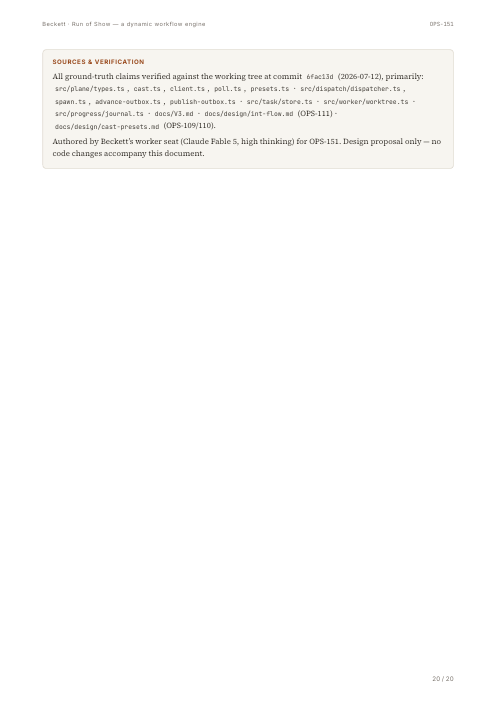
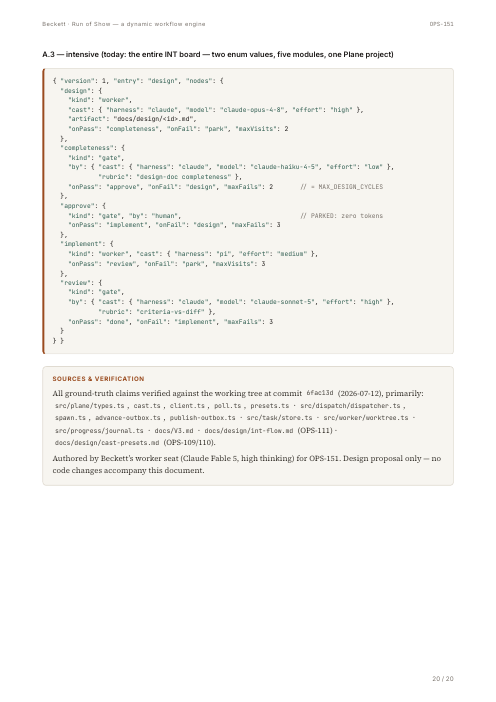
beckett: OPS-151 checkpoint (wk_c2cb3da2)

diff --git a/docs/.pdfbuild/07-appendix.html b/docs/.pdfbuild/07-appendix.html
@@ -7,62 +7,80 @@
   <div class="cols">
   <div>
   <h4>A.1 — one-pass (today: effort low/medium, tier &ldquo;self&rdquo;)</h4>
-  <pre><code>{ <span class="s">"version"</span>: 1,
-  <span class="s">"entry"</span>: <span class="s">"implement"</span>,
-  <span class="s">"nodes"</span>: {
-    <span class="s">"implement"</span>: {
-      <span class="s">"kind"</span>: <span class="s">"worker"</span>,
-      <span class="s">"cast"</span>: { <span class="s">"harness"</span>:<span class="s">"pi"</span>, <span class="s">"effort"</span>:<span class="s">"medium"</span> },
-      <span class="s">"onPass"</span>: <span class="s">"done"</span>,
-      <span class="s">"onFail"</span>: <span class="s">"park"</span>,
-      <span class="s">"retries"</span>: 3            <span class="c">// = MAX_IMPLEMENT_RETRIES</span>
+  <pre><code>{ <span class="s">&quot;version&quot;</span>: 1,
+  <span class="s">&quot;entry&quot;</span>: <span class="s">&quot;implement&quot;</span>,
+  <span class="s">&quot;nodes&quot;</span>: {
+    <span class="s">&quot;implement&quot;</span>: {
+      <span class="s">&quot;kind&quot;</span>: <span class="s">&quot;worker&quot;</span>,
+      <span class="s">&quot;cast&quot;</span>: { <span class="s">&quot;harness&quot;</span>: <span class="s">&quot;pi&quot;</span>,
+                <span class="s">&quot;effort&quot;</span>: <span class="s">&quot;medium&quot;</span> },
+      <span class="s">&quot;onPass&quot;</span>: <span class="s">&quot;done&quot;</span>,
+      <span class="s">&quot;onFail&quot;</span>: <span class="s">&quot;park&quot;</span>,
+      <span class="s">&quot;retries&quot;</span>: 3
+      <span class="c">// = MAX_IMPLEMENT_RETRIES</span>
     }
-  } }</code></pre>
+} }</code></pre>
   <p class="small">The zero-diff withhold (self-tier finish with no changes → route to review instead <span class="ref">dispatcher.ts:2283–2293</span>) becomes a linter-inserted model gate on this spec — the special case turns into visible structure.</p>
   </div>
   <div>
   <h4>A.2 — reviewed (today: effort high/xhigh, tier &ldquo;fresh&rdquo;)</h4>
-  <pre><code>{ <span class="s">"version"</span>: 1,
-  <span class="s">"entry"</span>: <span class="s">"implement"</span>,
-  <span class="s">"nodes"</span>: {
-    <span class="s">"implement"</span>: {
-      <span class="s">"kind"</span>: <span class="s">"worker"</span>,
-      <span class="s">"cast"</span>: { <span class="s">"harness"</span>:<span class="s">"pi"</span>, <span class="s">"effort"</span>:<span class="s">"high"</span> },
-      <span class="s">"onPass"</span>: <span class="s">"review"</span>,
-      <span class="s">"onFail"</span>: <span class="s">"park"</span>,
-      <span class="s">"maxVisits"</span>: 3,         <span class="c">// = MAX_REWORK_CYCLES</span>
-      <span class="s">"retries"</span>: 3
+  <pre><code>{ <span class="s">&quot;version&quot;</span>: 1,
+  <span class="s">&quot;entry&quot;</span>: <span class="s">&quot;implement&quot;</span>,
+  <span class="s">&quot;nodes&quot;</span>: {
+    <span class="s">&quot;implement&quot;</span>: {
+      <span class="s">&quot;kind&quot;</span>: <span class="s">&quot;worker&quot;</span>,
+      <span class="s">&quot;cast&quot;</span>: { <span class="s">&quot;harness&quot;</span>: <span class="s">&quot;pi&quot;</span>,
+                <span class="s">&quot;effort&quot;</span>: <span class="s">&quot;high&quot;</span> },
+      <span class="s">&quot;onPass&quot;</span>: <span class="s">&quot;review&quot;</span>,
+      <span class="s">&quot;onFail&quot;</span>: <span class="s">&quot;park&quot;</span>,
+      <span class="s">&quot;maxVisits&quot;</span>: 3,
+      <span class="c">// = MAX_REWORK_CYCLES</span>
+      <span class="s">&quot;retries&quot;</span>: 3
     },
-    <span class="s">"review"</span>: {
-      <span class="s">"kind"</span>: <span class="s">"gate"</span>,
-      <span class="s">"by"</span>: { <span class="s">"cast"</span>: { <span class="s">"harness"</span>:<span class="s">"claude"</span>,
-              <span class="s">"model"</span>:<span class="s">"claude-sonnet-5"</span>, <span class="s">"effort"</span>:<span class="s">"high"</span> },
-              <span class="s">"rubric"</span>: <span class="s">"criteria-vs-diff"</span> },
-      <span class="s">"onPass"</span>: <span class="s">"done"</span>,
-      <span class="s">"onFail"</span>: <span class="s">"implement"</span>,
-      <span class="s">"maxFails"</span>: 3
+    <span class="s">&quot;review&quot;</span>: {
+      <span class="s">&quot;kind&quot;</span>: <span class="s">&quot;gate&quot;</span>,
+      <span class="s">&quot;by&quot;</span>: {
+        <span class="s">&quot;cast&quot;</span>: { <span class="s">&quot;harness&quot;</span>: <span class="s">&quot;claude&quot;</span>,
+                  <span class="s">&quot;model&quot;</span>: <span class="s">&quot;claude-sonnet-5&quot;</span>,
+                  <span class="s">&quot;effort&quot;</span>: <span class="s">&quot;high&quot;</span> },
+        <span class="s">&quot;rubric&quot;</span>: <span class="s">&quot;criteria-vs-diff&quot;</span>
+      },
+      <span class="s">&quot;onPass&quot;</span>: <span class="s">&quot;done&quot;</span>,
+      <span class="s">&quot;onFail&quot;</span>: <span class="s">&quot;implement&quot;</span>,
+      <span class="s">&quot;maxFails&quot;</span>: 3
     }
-  } }</code></pre>
+} }</code></pre>
   </div>
   </div>
 
   <h4>A.3 — intensive (today: the entire INT board — two enum values, five modules, one Plane project)</h4>
-  <pre><code>{ <span class="s">"version"</span>: 1, <span class="s">"entry"</span>: <span class="s">"design"</span>, <span class="s">"nodes"</span>: {
-  <span class="s">"design"</span>:       { <span class="s">"kind"</span>:<span class="s">"worker"</span>, <span class="s">"cast"</span>:{<span class="s">"harness"</span>:<span class="s">"claude"</span>,<span class="s">"model"</span>:<span class="s">"claude-opus-4-8"</span>,<span class="s">"effort"</span>:<span class="s">"high"</span>},
-                    <span class="s">"artifact"</span>:<span class="s">"docs/design/&lt;id&gt;.md"</span>,
-                    <span class="s">"onPass"</span>:<span class="s">"completeness"</span>, <span class="s">"onFail"</span>:<span class="s">"park"</span>, <span class="s">"maxVisits"</span>:2 },
-  <span class="s">"completeness"</span>: { <span class="s">"kind"</span>:<span class="s">"gate"</span>,
-                    <span class="s">"by"</span>: { <span class="s">"cast"</span>:{<span class="s">"harness"</span>:<span class="s">"claude"</span>,<span class="s">"model"</span>:<span class="s">"claude-haiku-4-5"</span>,<span class="s">"effort"</span>:<span class="s">"low"</span>},
-                            <span class="s">"rubric"</span>:<span class="s">"design-doc completeness"</span> },
-                    <span class="s">"onPass"</span>:<span class="s">"approve"</span>, <span class="s">"onFail"</span>:<span class="s">"design"</span>, <span class="s">"maxFails"</span>:2 },   <span class="c">// = MAX_DESIGN_CYCLES</span>
-  <span class="s">"approve"</span>:      { <span class="s">"kind"</span>:<span class="s">"gate"</span>, <span class="s">"by"</span>:<span class="s">"human"</span>,                              <span class="c">// PARKED: zero tokens</span>
-                    <span class="s">"onPass"</span>:<span class="s">"implement"</span>, <span class="s">"onFail"</span>:<span class="s">"design"</span>, <span class="s">"maxFails"</span>:3 },
-  <span class="s">"implement"</span>:    { <span class="s">"kind"</span>:<span class="s">"worker"</span>, <span class="s">"cast"</span>:{<span class="s">"harness"</span>:<span class="s">"pi"</span>,<span class="s">"effort"</span>:<span class="s">"medium"</span>},
-                    <span class="s">"onPass"</span>:<span class="s">"review"</span>, <span class="s">"onFail"</span>:<span class="s">"park"</span>, <span class="s">"maxVisits"</span>:3 },
-  <span class="s">"review"</span>:       { <span class="s">"kind"</span>:<span class="s">"gate"</span>,
-                    <span class="s">"by"</span>: { <span class="s">"cast"</span>:{<span class="s">"harness"</span>:<span class="s">"claude"</span>,<span class="s">"model"</span>:<span class="s">"claude-sonnet-5"</span>,<span class="s">"effort"</span>:<span class="s">"high"</span>},
-                            <span class="s">"rubric"</span>:<span class="s">"criteria-vs-diff"</span> },
-                    <span class="s">"onPass"</span>:<span class="s">"done"</span>, <span class="s">"onFail"</span>:<span class="s">"implement"</span>, <span class="s">"maxFails"</span>:3 }
+  <pre><code>{ <span class="s">&quot;version&quot;</span>: 1, <span class="s">&quot;entry&quot;</span>: <span class="s">&quot;design&quot;</span>, <span class="s">&quot;nodes&quot;</span>: {
+  <span class="s">&quot;design&quot;</span>: {
+    <span class="s">&quot;kind&quot;</span>: <span class="s">&quot;worker&quot;</span>,
+    <span class="s">&quot;cast&quot;</span>: { <span class="s">&quot;harness&quot;</span>: <span class="s">&quot;claude&quot;</span>, <span class="s">&quot;model&quot;</span>: <span class="s">&quot;claude-opus-4-8&quot;</span>, <span class="s">&quot;effort&quot;</span>: <span class="s">&quot;high&quot;</span> },
+    <span class="s">&quot;artifact&quot;</span>: &quot;docs/design/&lt;id&gt;.md&quot;,
+    <span class="s">&quot;onPass&quot;</span>: <span class="s">&quot;completeness&quot;</span>, <span class="s">&quot;onFail&quot;</span>: <span class="s">&quot;park&quot;</span>, <span class="s">&quot;maxVisits&quot;</span>: 2
+  },
+  <span class="s">&quot;completeness&quot;</span>: {
+    <span class="s">&quot;kind&quot;</span>: <span class="s">&quot;gate&quot;</span>,
+    <span class="s">&quot;by&quot;</span>: { <span class="s">&quot;cast&quot;</span>: { <span class="s">&quot;harness&quot;</span>: <span class="s">&quot;claude&quot;</span>, <span class="s">&quot;model&quot;</span>: <span class="s">&quot;claude-haiku-4-5&quot;</span>, <span class="s">&quot;effort&quot;</span>: <span class="s">&quot;low&quot;</span> },
+            <span class="s">&quot;rubric&quot;</span>: <span class="s">&quot;design-doc completeness&quot;</span> },
+    <span class="s">&quot;onPass&quot;</span>: <span class="s">&quot;approve&quot;</span>, <span class="s">&quot;onFail&quot;</span>: <span class="s">&quot;design&quot;</span>, <span class="s">&quot;maxFails&quot;</span>: 2       <span class="c">// = MAX_DESIGN_CYCLES</span>
+  },
+  <span class="s">&quot;approve&quot;</span>: {
+    <span class="s">&quot;kind&quot;</span>: <span class="s">&quot;gate&quot;</span>, <span class="s">&quot;by&quot;</span>: <span class="s">&quot;human&quot;</span>,                               <span class="c">// PARKED: zero tokens</span>
+    <span class="s">&quot;onPass&quot;</span>: <span class="s">&quot;implement&quot;</span>, <span class="s">&quot;onFail&quot;</span>: <span class="s">&quot;design&quot;</span>, <span class="s">&quot;maxFails&quot;</span>: 3
+  },
+  <span class="s">&quot;implement&quot;</span>: {
+    <span class="s">&quot;kind&quot;</span>: <span class="s">&quot;worker&quot;</span>, <span class="s">&quot;cast&quot;</span>: { <span class="s">&quot;harness&quot;</span>: <span class="s">&quot;pi&quot;</span>, <span class="s">&quot;effort&quot;</span>: <span class="s">&quot;medium&quot;</span> },
+    <span class="s">&quot;onPass&quot;</span>: <span class="s">&quot;review&quot;</span>, <span class="s">&quot;onFail&quot;</span>: <span class="s">&quot;park&quot;</span>, <span class="s">&quot;maxVisits&quot;</span>: 3
+  },
+  <span class="s">&quot;review&quot;</span>: {
+    <span class="s">&quot;kind&quot;</span>: <span class="s">&quot;gate&quot;</span>,
+    <span class="s">&quot;by&quot;</span>: { <span class="s">&quot;cast&quot;</span>: { <span class="s">&quot;harness&quot;</span>: <span class="s">&quot;claude&quot;</span>, <span class="s">&quot;model&quot;</span>: <span class="s">&quot;claude-sonnet-5&quot;</span>, <span class="s">&quot;effort&quot;</span>: <span class="s">&quot;high&quot;</span> },
+            <span class="s">&quot;rubric&quot;</span>: <span class="s">&quot;criteria-vs-diff&quot;</span> },
+    <span class="s">&quot;onPass&quot;</span>: <span class="s">&quot;done&quot;</span>, <span class="s">&quot;onFail&quot;</span>: <span class="s">&quot;implement&quot;</span>, <span class="s">&quot;maxFails&quot;</span>: 3
+  }
 } }</code></pre>
 
   <div class="note" style="margin-top:5mm">

diff --git a/docs/.pdfbuild/design.html b/docs/.pdfbuild/design.html
@@ -718,62 +718,80 @@ beckett task file --title "…" --project foo --channel &lt;id&gt; \
   <div class="cols">
   <div>
   <h4>A.1 — one-pass (today: effort low/medium, tier &ldquo;self&rdquo;)</h4>
-  <pre><code>{ <span class="s">"version"</span>: 1,
-  <span class="s">"entry"</span>: <span class="s">"implement"</span>,
-  <span class="s">"nodes"</span>: {
-    <span class="s">"implement"</span>: {
-      <span class="s">"kind"</span>: <span class="s">"worker"</span>,
-      <span class="s">"cast"</span>: { <span class="s">"harness"</span>:<span class="s">"pi"</span>, <span class="s">"effort"</span>:<span class="s">"medium"</span> },
-      <span class="s">"onPass"</span>: <span class="s">"done"</span>,
-      <span class="s">"onFail"</span>: <span class="s">"park"</span>,
-      <span class="s">"retries"</span>: 3            <span class="c">// = MAX_IMPLEMENT_RETRIES</span>
+  <pre><code>{ <span class="s">&quot;version&quot;</span>: 1,
+  <span class="s">&quot;entry&quot;</span>: <span class="s">&quot;implement&quot;</span>,
+  <span class="s">&quot;nodes&quot;</span>: {
+    <span class="s">&quot;implement&quot;</span>: {
+      <span class="s">&quot;kind&quot;</span>: <span class="s">&quot;worker&quot;</span>,
+      <span class="s">&quot;cast&quot;</span>: { <span class="s">&quot;harness&quot;</span>: <span class="s">&quot;pi&quot;</span>,
+                <span class="s">&quot;effort&quot;</span>: <span class="s">&quot;medium&quot;</span> },
+      <span class="s">&quot;onPass&quot;</span>: <span class="s">&quot;done&quot;</span>,
+      <span class="s">&quot;onFail&quot;</span>: <span class="s">&quot;park&quot;</span>,
+      <span class="s">&quot;retries&quot;</span>: 3
+      <span class="c">// = MAX_IMPLEMENT_RETRIES</span>
     }
-  } }</code></pre>
+} }</code></pre>
   <p class="small">The zero-diff withhold (self-tier finish with no changes → route to review instead <span class="ref">dispatcher.ts:2283–2293</span>) becomes a linter-inserted model gate on this spec — the special case turns into visible structure.</p>
   </div>
   <div>
   <h4>A.2 — reviewed (today: effort high/xhigh, tier &ldquo;fresh&rdquo;)</h4>
-  <pre><code>{ <span class="s">"version"</span>: 1,
-  <span class="s">"entry"</span>: <span class="s">"implement"</span>,
-  <span class="s">"nodes"</span>: {
-    <span class="s">"implement"</span>: {
-      <span class="s">"kind"</span>: <span class="s">"worker"</span>,
-      <span class="s">"cast"</span>: { <span class="s">"harness"</span>:<span class="s">"pi"</span>, <span class="s">"effort"</span>:<span class="s">"high"</span> },
-      <span class="s">"onPass"</span>: <span class="s">"review"</span>,
-      <span class="s">"onFail"</span>: <span class="s">"park"</span>,
-      <span class="s">"maxVisits"</span>: 3,         <span class="c">// = MAX_REWORK_CYCLES</span>
-      <span class="s">"retries"</span>: 3
+  <pre><code>{ <span class="s">&quot;version&quot;</span>: 1,
+  <span class="s">&quot;entry&quot;</span>: <span class="s">&quot;implement&quot;</span>,
+  <span class="s">&quot;nodes&quot;</span>: {
+    <span class="s">&quot;implement&quot;</span>: {
+      <span class="s">&quot;kind&quot;</span>: <span class="s">&quot;worker&quot;</span>,
+      <span class="s">&quot;cast&quot;</span>: { <span class="s">&quot;harness&quot;</span>: <span class="s">&quot;pi&quot;</span>,
+                <span class="s">&quot;effort&quot;</span>: <span class="s">&quot;high&quot;</span> },
+      <span class="s">&quot;onPass&quot;</span>: <span class="s">&quot;review&quot;</span>,
+      <span class="s">&quot;onFail&quot;</span>: <span class="s">&quot;park&quot;</span>,
+      <span class="s">&quot;maxVisits&quot;</span>: 3,
+      <span class="c">// = MAX_REWORK_CYCLES</span>
+      <span class="s">&quot;retries&quot;</span>: 3
     },
-    <span class="s">"review"</span>: {
-      <span class="s">"kind"</span>: <span class="s">"gate"</span>,
-      <span class="s">"by"</span>: { <span class="s">"cast"</span>: { <span class="s">"harness"</span>:<span class="s">"claude"</span>,
-              <span class="s">"model"</span>:<span class="s">"claude-sonnet-5"</span>, <span class="s">"effort"</span>:<span class="s">"high"</span> },
-              <span class="s">"rubric"</span>: <span class="s">"criteria-vs-diff"</span> },
-      <span class="s">"onPass"</span>: <span class="s">"done"</span>,
-      <span class="s">"onFail"</span>: <span class="s">"implement"</span>,
-      <span class="s">"maxFails"</span>: 3
+    <span class="s">&quot;review&quot;</span>: {
+      <span class="s">&quot;kind&quot;</span>: <span class="s">&quot;gate&quot;</span>,
+      <span class="s">&quot;by&quot;</span>: {
+        <span class="s">&quot;cast&quot;</span>: { <span class="s">&quot;harness&quot;</span>: <span class="s">&quot;claude&quot;</span>,
+                  <span class="s">&quot;model&quot;</span>: <span class="s">&quot;claude-sonnet-5&quot;</span>,
+                  <span class="s">&quot;effort&quot;</span>: <span class="s">&quot;high&quot;</span> },
+        <span class="s">&quot;rubric&quot;</span>: <span class="s">&quot;criteria-vs-diff&quot;</span>
+      },
+      <span class="s">&quot;onPass&quot;</span>: <span class="s">&quot;done&quot;</span>,
+      <span class="s">&quot;onFail&quot;</span>: <span class="s">&quot;implement&quot;</span>,
+      <span class="s">&quot;maxFails&quot;</span>: 3
     }
-  } }</code></pre>
+} }</code></pre>
   </div>
   </div>
 
   <h4>A.3 — intensive (today: the entire INT board — two enum values, five modules, one Plane project)</h4>
-  <pre><code>{ <span class="s">"version"</span>: 1, <span class="s">"entry"</span>: <span class="s">"design"</span>, <span class="s">"nodes"</span>: {
-  <span class="s">"design"</span>:       { <span class="s">"kind"</span>:<span class="s">"worker"</span>, <span class="s">"cast"</span>:{<span class="s">"harness"</span>:<span class="s">"claude"</span>,<span class="s">"model"</span>:<span class="s">"claude-opus-4-8"</span>,<span class="s">"effort"</span>:<span class="s">"high"</span>},
-                    <span class="s">"artifact"</span>:<span class="s">"docs/design/&lt;id&gt;.md"</span>,
-                    <span class="s">"onPass"</span>:<span class="s">"completeness"</span>, <span class="s">"onFail"</span>:<span class="s">"park"</span>, <span class="s">"maxVisits"</span>:2 },
-  <span class="s">"completeness"</span>: { <span class="s">"kind"</span>:<span class="s">"gate"</span>,
-                    <span class="s">"by"</span>: { <span class="s">"cast"</span>:{<span class="s">"harness"</span>:<span class="s">"claude"</span>,<span class="s">"model"</span>:<span class="s">"claude-haiku-4-5"</span>,<span class="s">"effort"</span>:<span class="s">"low"</span>},
-                            <span class="s">"rubric"</span>:<span class="s">"design-doc completeness"</span> },
-                    <span class="s">"onPass"</span>:<span class="s">"approve"</span>, <span class="s">"onFail"</span>:<span class="s">"design"</span>, <span class="s">"maxFails"</span>:2 },   <span class="c">// = MAX_DESIGN_CYCLES</span>
-  <span class="s">"approve"</span>:      { <span class="s">"kind"</span>:<span class="s">"gate"</span>, <span class="s">"by"</span>:<span class="s">"human"</span>,                              <span class="c">// PARKED: zero tokens</span>
-                    <span class="s">"onPass"</span>:<span class="s">"implement"</span>, <span class="s">"onFail"</span>:<span class="s">"design"</span>, <span class="s">"maxFails"</span>:3 },
-  <span class="s">"implement"</span>:    { <span class="s">"kind"</span>:<span class="s">"worker"</span>, <span class="s">"cast"</span>:{<span class="s">"harness"</span>:<span class="s">"pi"</span>,<span class="s">"effort"</span>:<span class="s">"medium"</span>},
-                    <span class="s">"onPass"</span>:<span class="s">"review"</span>, <span class="s">"onFail"</span>:<span class="s">"park"</span>, <span class="s">"maxVisits"</span>:3 },
-  <span class="s">"review"</span>:       { <span class="s">"kind"</span>:<span class="s">"gate"</span>,
-                    <span class="s">"by"</span>: { <span class="s">"cast"</span>:{<span class="s">"harness"</span>:<span class="s">"claude"</span>,<span class="s">"model"</span>:<span class="s">"claude-sonnet-5"</span>,<span class="s">"effort"</span>:<span class="s">"high"</span>},
-                            <span class="s">"rubric"</span>:<span class="s">"criteria-vs-diff"</span> },
-                    <span class="s">"onPass"</span>:<span class="s">"done"</span>, <span class="s">"onFail"</span>:<span class="s">"implement"</span>, <span class="s">"maxFails"</span>:3 }
+  <pre><code>{ <span class="s">&quot;version&quot;</span>: 1, <span class="s">&quot;entry&quot;</span>: <span class="s">&quot;design&quot;</span>, <span class="s">&quot;nodes&quot;</span>: {
+  <span class="s">&quot;design&quot;</span>: {
+    <span class="s">&quot;kind&quot;</span>: <span class="s">&quot;worker&quot;</span>,
+    <span class="s">&quot;cast&quot;</span>: { <span class="s">&quot;harness&quot;</span>: <span class="s">&quot;claude&quot;</span>, <span class="s">&quot;model&quot;</span>: <span class="s">&quot;claude-opus-4-8&quot;</span>, <span class="s">&quot;effort&quot;</span>: <span class="s">&quot;high&quot;</span> },
+    <span class="s">&quot;artifact&quot;</span>: &quot;docs/design/&lt;id&gt;.md&quot;,
+    <span class="s">&quot;onPass&quot;</span>: <span class="s">&quot;completeness&quot;</span>, <span class="s">&quot;onFail&quot;</span>: <span class="s">&quot;park&quot;</span>, <span class="s">&quot;maxVisits&quot;</span>: 2
+  },
+  <span class="s">&quot;completeness&quot;</span>: {
+    <span class="s">&quot;kind&quot;</span>: <span class="s">&quot;gate&quot;</span>,
+    <span class="s">&quot;by&quot;</span>: { <span class="s">&quot;cast&quot;</span>: { <span class="s">&quot;harness&quot;</span>: <span class="s">&quot;claude&quot;</span>, <span class="s">&quot;model&quot;</span>: <span class="s">&quot;claude-haiku-4-5&quot;</span>, <span class="s">&quot;effort&quot;</span>: <span class="s">&quot;low&quot;</span> },
+            <span class="s">&quot;rubric&quot;</span>: <span class="s">&quot;design-doc completeness&quot;</span> },
+    <span class="s">&quot;onPass&quot;</span>: <span class="s">&quot;approve&quot;</span>, <span class="s">&quot;onFail&quot;</span>: <span class="s">&quot;design&quot;</span>, <span class="s">&quot;maxFails&quot;</span>: 2       <span class="c">// = MAX_DESIGN_CYCLES</span>
+  },
+  <span class="s">&quot;approve&quot;</span>: {
+    <span class="s">&quot;kind&quot;</span>: <span class="s">&quot;gate&quot;</span>, <span class="s">&quot;by&quot;</span>: <span class="s">&quot;human&quot;</span>,                               <span class="c">// PARKED: zero tokens</span>
+    <span class="s">&quot;onPass&quot;</span>: <span class="s">&quot;implement&quot;</span>, <span class="s">&quot;onFail&quot;</span>: <span class="s">&quot;design&quot;</span>, <span class="s">&quot;maxFails&quot;</span>: 3
+  },
+  <span class="s">&quot;implement&quot;</span>: {
+    <span class="s">&quot;kind&quot;</span>: <span class="s">&quot;worker&quot;</span>, <span class="s">&quot;cast&quot;</span>: { <span class="s">&quot;harness&quot;</span>: <span class="s">&quot;pi&quot;</span>, <span class="s">&quot;effort&quot;</span>: <span class="s">&quot;medium&quot;</span> },
+    <span class="s">&quot;onPass&quot;</span>: <span class="s">&quot;review&quot;</span>, <span class="s">&quot;onFail&quot;</span>: <span class="s">&quot;park&quot;</span>, <span class="s">&quot;maxVisits&quot;</span>: 3
+  },
+  <span class="s">&quot;review&quot;</span>: {
+    <span class="s">&quot;kind&quot;</span>: <span class="s">&quot;gate&quot;</span>,
+    <span class="s">&quot;by&quot;</span>: { <span class="s">&quot;cast&quot;</span>: { <span class="s">&quot;harness&quot;</span>: <span class="s">&quot;claude&quot;</span>, <span class="s">&quot;model&quot;</span>: <span class="s">&quot;claude-sonnet-5&quot;</span>, <span class="s">&quot;effort&quot;</span>: <span class="s">&quot;high&quot;</span> },
+            <span class="s">&quot;rubric&quot;</span>: <span class="s">&quot;criteria-vs-diff&quot;</span> },
+    <span class="s">&quot;onPass&quot;</span>: <span class="s">&quot;done&quot;</span>, <span class="s">&quot;onFail&quot;</span>: <span class="s">&quot;implement&quot;</span>, <span class="s">&quot;maxFails&quot;</span>: 3
+  }
 } }</code></pre>
 
   <div class="note" style="margin-top:5mm">

diff --git a/docs/.pdfbuild/fix_appendix.py b/docs/.pdfbuild/fix_appendix.py
@@ -1,0 +1,94 @@
+import re, html
+
+COM = chr(47) * 2  # //
+
+def hl(code):
+    out = []
+    for line in code.split('\n'):
+        if COM in line:
+            body, com = line.split(COM, 1)
+            com = '<span class="c">' + COM + html.escape(com) + '</span>'
+        else:
+            body, com = line, ''
+        body = html.escape(body)
+        body = re.sub(r'(&quot;[^&]*?&quot;)', r'<span class="s">\1</span>', body)
+        out.append(body + com)
+    return '<pre><code>' + '\n'.join(out) + '</code></pre>'
+
+a1 = '''{ "version": 1,
+  "entry": "implement",
+  "nodes": {
+    "implement": {
+      "kind": "worker",
+      "cast": { "harness": "pi",
+                "effort": "medium" },
+      "onPass": "done",
+      "onFail": "park",
+      "retries": 3
+      ''' + COM + ''' = MAX_IMPLEMENT_RETRIES
+    }
+} }'''
+
+a2 = '''{ "version": 1,
+  "entry": "implement",
+  "nodes": {
+    "implement": {
+      "kind": "worker",
+      "cast": { "harness": "pi",
+                "effort": "high" },
+      "onPass": "review",
+      "onFail": "park",
+      "maxVisits": 3,
+      ''' + COM + ''' = MAX_REWORK_CYCLES
+      "retries": 3
+    },
+    "review": {
+      "kind": "gate",
+      "by": {
+        "cast": { "harness": "claude",
+                  "model": "claude-sonnet-5",
+                  "effort": "high" },
+        "rubric": "criteria-vs-diff"
+      },
+      "onPass": "done",
+      "onFail": "implement",
+      "maxFails": 3
+    }
+} }'''
+
+a3 = '''{ "version": 1, "entry": "design", "nodes": {
+  "design": {
+    "kind": "worker",
+    "cast": { "harness": "claude", "model": "claude-opus-4-8", "effort": "high" },
+    "artifact": "docs/design/<id>.md",
+    "onPass": "completeness", "onFail": "park", "maxVisits": 2
+  },
+  "completeness": {
+    "kind": "gate",
+    "by": { "cast": { "harness": "claude", "model": "claude-haiku-4-5", "effort": "low" },
+            "rubric": "design-doc completeness" },
+    "onPass": "approve", "onFail": "design", "maxFails": 2       ''' + COM + ''' = MAX_DESIGN_CYCLES
+  },
+  "approve": {
+    "kind": "gate", "by": "human",                               ''' + COM + ''' PARKED: zero tokens
+    "onPass": "implement", "onFail": "design", "maxFails": 3
+  },
+  "implement": {
+    "kind": "worker", "cast": { "harness": "pi", "effort": "medium" },
+    "onPass": "review", "onFail": "park", "maxVisits": 3
+  },
+  "review": {
+    "kind": "gate",
+    "by": { "cast": { "harness": "claude", "model": "claude-sonnet-5", "effort": "high" },
+            "rubric": "criteria-vs-diff" },
+    "onPass": "done", "onFail": "implement", "maxFails": 3
+  }
+} }'''
+
+src = open('07-appendix.html').read()
+pres = re.findall(r'<pre>.*?<' + chr(47) + 'pre>', src, re.S)
+assert len(pres) == 3, len(pres)
+for old, new in zip(pres, [hl(a1), hl(a2), hl(a3)]):
+    src = src.replace(old, new)
+open('07-appendix.html', 'w').write(src)
+print('done; longest a3 line:', max(len(l) for l in a3.split('\n')))